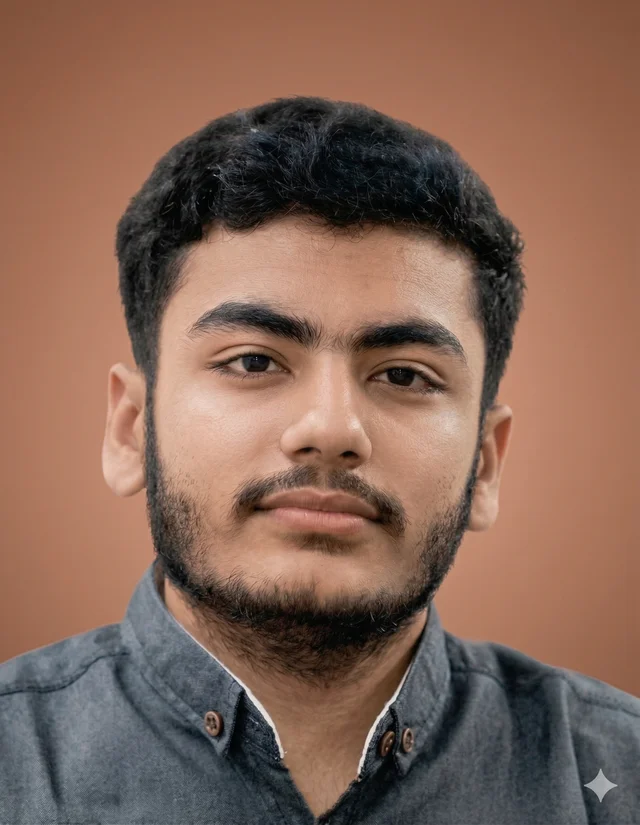
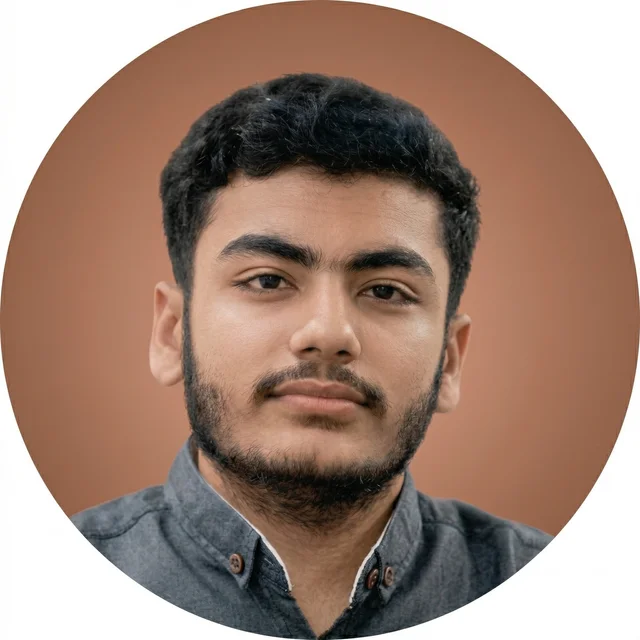
Replace hero photo with pre-cropped circular image

diff --git a/src/components/styles/Landing.css b/src/components/styles/Landing.css
@@ -196,8 +196,8 @@
 .landing__photo {
   width: 100%;
   height: 100%;
-  object-fit: contain;
-  object-position: center top;
+  object-fit: cover;
+  object-position: center;
   transform: none;
   filter: grayscale(8%);
 }
